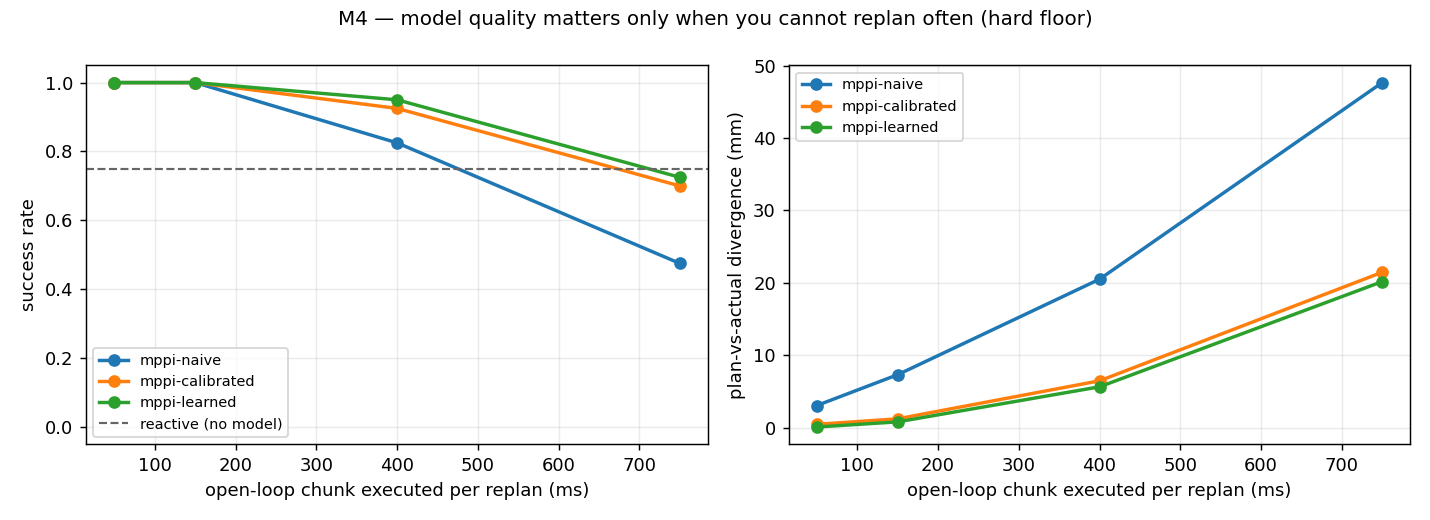
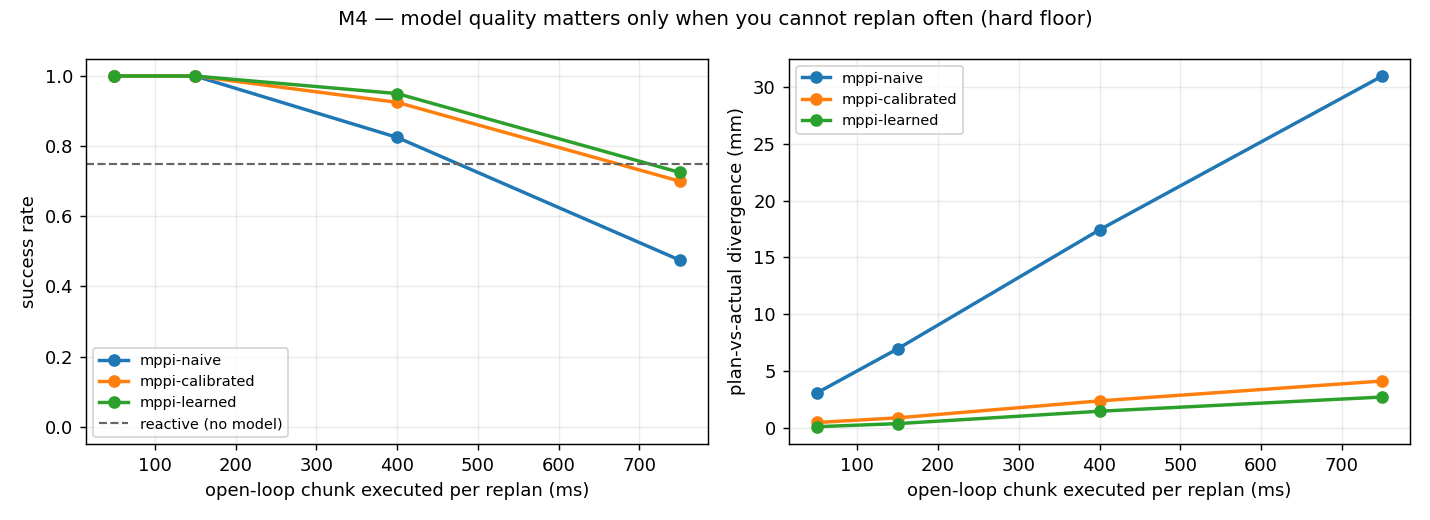
Correct M4's divergence column and supersede its explanation
Reran both surfaces with the fixed indexing. My independent rerun matches the
M5 agent's corrected figures to 0.01 mm (calibrated 4.12 vs 4.13, learned 2.71
vs 2.71) and reproduces M4's success rates exactly, which confirms the bug was
confined to the diagnostic column.

  hard @ 750 ms   naive 47.66 -> 30.95   cal 21.47 -> 4.12   learned 20.18 -> 2.71

On mat the same correction barely moved the numbers (21.96 -> 21.60). Not the
bug behaving differently: the learned model was trained on hard, so its real
transfer error (10.5 mm at 400 ms against 1.5 mm on hard) dominates the
artifact that was inflating both surfaces.

Also adds the ceiling section. M4 attributed the learned model's small
contribution to distribution shift; M5's oracle shows a predictor with 0.18 mm
error scores 72.5% at chunk 15, identical to the learned model's 72.5%. There
was no headroom. The old diagnosis is kept, clearly marked as superseded,
because it was a correct measurement and an incorrect explanation and the
distinction is the point.

diff --git a/Project/arkham-batmobile/experiments/M4-world-model-planning/README.md b/Project/arkham-batmobile/experiments/M4-world-model-planning/README.md
@@ -1,6 +1,16 @@
 # M4 — Planning inside a learned world model
 
-**Date:** 2026-10-11 · **Status:** complete · **Milestone:** M4 (simulation only)
+**Date:** 2026-10-11 · **Status:** complete, **corrected 2026-10-14** · **Milestone:** M4
+
+> **CORRECTION (2026-10-14).** The `divergence` column published here was a termination artifact,
+> not model error — `run_trial` indexed the predicted path at the chunk length while the execution
+> loop breaks early on reaching the goal, so a 15-step prediction was scored against a 3-step
+> outcome. Corrected figures are in the tables below (hard @ 750 ms: calibrated 21.47 → **4.12 mm**,
+> learned 20.18 → **2.71 mm**). **Success and collision rates are unaffected** — they come from the
+> actual trajectory — and all three findings stand. Verified trial-for-trial: 0 trajectory
+> mismatches.
+>
+> **Finding 2's *explanation* is also superseded.** See § The ceiling, below.
 
 ## Question
 
@@ -37,9 +47,9 @@ Success rate (collision-free gate traversal reaching the goal):
 | Replan interval | naive | calibrated | learned | divergence (naive → learned) |
 |---|---:|---:|---:|---|
 | 50 ms | 100% | 100% | 100% | 3.07 → 0.10 mm |
-| 150 ms | 100% | 100% | 100% | 7.32 → 0.81 mm |
-| 400 ms | 82.5% | 92.5% | **95.0%** | 20.51 → 5.65 mm |
-| 750 ms | 47.5% | 70.0% | **72.5%** | 47.66 → 20.18 mm |
+| 150 ms | 100% | 100% | 100% | 6.95 → 0.37 mm |
+| 400 ms | 82.5% | 92.5% | **95.0%** | 17.42 → 1.46 mm |
+| 750 ms | 47.5% | 70.0% | **72.5%** | 30.95 → 2.71 mm |
 
 `reactive` (no model at all): **75%**.
 
@@ -60,7 +70,32 @@ Success rate (collision-free gate traversal reaching the goal):
    naive model (47.5%) is *worse* than the model-free reactive controller (75%). A bad model
    committed to for three quarters of a second is worse than no model and a tight loop.
 
-## Why the learned model barely helped
+## The ceiling — why the learned model barely helped
+
+**This section supersedes the distribution-shift explanation below.** The M5 follow-up built an
+oracle predictor that plans through the simulator's own dynamics, validated at 0.175 mm:
+
+| at 750 ms | on-policy 0.75 s error | success |
+|---|---:|---:|
+| naive | 30.95 mm | 47.5% |
+| calibrated | 4.12 mm | 70.0% |
+| learned | 2.71 mm | 72.5% |
+| **oracle (perfect model)** | **0.18 mm** | **72.5%** |
+
+**A 23× more accurate model scores identically.** There was never any headroom: the +2.5 point
+calibrated→learned gap had a +2.5 point ceiling. Success against accuracy is flat below ~4 mm,
+because the gate leaves 18–53 mm of clearance and sub-4 mm errors cannot change whether the robot
+fits through it.
+
+So the diagnosis below is true as a measurement and wrong as an explanation. The distribution
+shift is real, and M5's DAgger loop closed it (2.81 → 0.57 mm on planner actions, 4.9×) — and task
+success did not move at all. See [`../M5-dagger/`](../M5-dagger/README.md).
+
+The lesson, which is the same one M2b taught one experiment earlier: **before improving a
+component, measure what that component being perfect would be worth.** The oracle cost under a
+hundred lines and three minutes, and would have predicted both null results in advance.
+
+## Why the learned model barely helped — the superseded diagnosis
 
 M2 measured the learned model as ~4× more accurate than calibrated. Here it bought 2.5 points.
 That gap needed an explanation, so:
@@ -138,6 +173,14 @@ Same model (trained on `hard`), same calibration (fitted on `hard`), evaluated o
 | 150 ms | 100% | 100% | 100% | | all 100% |
 | 400 ms | 70.0% | 95.0% | **97.5%** | | 82.5 / 92.5 / 95.0 |
 | 750 ms | 47.5% | 60.0% | **65.0%** | | 47.5 / 70.0 / 72.5 |
+
+Corrected divergence on mat (naive → calibrated → learned): 26.94 / 10.78 / **10.49 mm** at
+400 ms, 50.13 / 21.60 / **20.70 mm** at 750 ms.
+
+Note the asymmetry with hard, where the same correction cut divergence 5× and here it barely
+moved. That is not the bug behaving differently — it is that on `mat` the genuine model error
+dominates. The learned model was trained on `hard`, so its real transfer error (10.5 mm at 400 ms
+against 1.5 mm on hard, 7×) swamps the termination artifact that was previously inflating both.
 
 `reactive` on mat: 62.5% (vs 75% on hard).
 

diff --git a/Project/arkham-batmobile/REVIEW-QUEUE.md b/Project/arkham-batmobile/REVIEW-QUEUE.md
@@ -15,6 +15,8 @@ restructure. Say the word and it gets committed.
 | 1 | [experiments/M2-state-predictor/README.md](experiments/M2-state-predictor/README.md) | The headline result, and the baseline bug that nearly faked it. If you only read one thing, this. |
 | 1b | [experiments/M2b-history-conditioning/README.md](experiments/M2b-history-conditioning/README.md) | My proposed fix failed. Includes why, and why I should have predicted it. Short. |
 | 1c | [experiments/M4-world-model-planning/README.md](experiments/M4-world-model-planning/README.md) | The payoff experiment. Planning works, but most of the benefit comes from four fitted scalars rather than the neural network — and why. Also a cost-function bug that nearly became a false finding. |
+| 1d | [experiments/M5-dagger/README.md](experiments/M5-dagger/README.md) | **The most important result so far.** DAgger closes the accuracy gap 4.9× and buys zero task success, and an oracle proves a *perfect* model would too. Overturns M4's explanation. |
+| 1e | [experiments/M3a-surface-from-pixels/README.md](experiments/M3a-surface-from-pixels/README.md) | Vision fixes M2's transfer failure (16.78 → 1.98 mm). Read the caveats — a one-line classifier gets 95%. |
 | 2 | [hardware/BOM.md](hardware/BOM.md) | **Spends your money.** ~$450 for the learning robot. I chose Pi 5 over Jetson and slow encoder motors over brushless — both are reversible now and expensive later. |
 | 3 | [PRD.md](PRD.md) § 3 | The eight success criteria. If you disagree with what "done" means, now is the cheap time to say so. |
 
@@ -56,5 +58,8 @@ restructure. Say the word and it gets committed.
 | 2026-10-11 | M2b: **hypothesis rejected.** History does not help — the surface is only 69% identifiable from proprioception even with 4 s of it. Redirects toward vision. |
 | 2026-10-11 | Simulator fix: `hard` and `mat` now look different, not just grip different. Any frame dataset from before today is stale. |
 | 2026-10-13 | M4 transfer sweep on `mat`: ordering holds on an unseen surface, ~10 point degradation, nothing collapses. Learned-vs-calibrated gap within noise on both surfaces. |
+| 2026-10-14 | M5 DAgger: accuracy gap closed 4.9×, task success unchanged. Oracle shows a perfect model scores the same — no headroom existed. Corrects M4's explanation. |
+| 2026-10-14 | M3a vision: 100% surface ID from one frame (but a one-line scalar gets 95.1%); conditioning fixes M2's transfer failure, 16.78 → 1.98 mm. |
+| 2026-10-14 | Third divergence-indexing bug fixed in run_m4.py; M4's diagnostic column corrected, success rates unaffected. |
 | 2026-10-13 | 3D design spec written, then **parked as iteration 2** — battle mode, decisions settled, starts when M4 passes on hardware. Body stays foam v1 until then. |
 | 2026-10-11 | M4 MPPI planning. Replan rate dominates model quality; calibration captures most of the gain; learned model degrades 83% -> 35% advantage under the planner's own action distribution. Plans in 40 ms on CPU, so Pi-feasible. |
